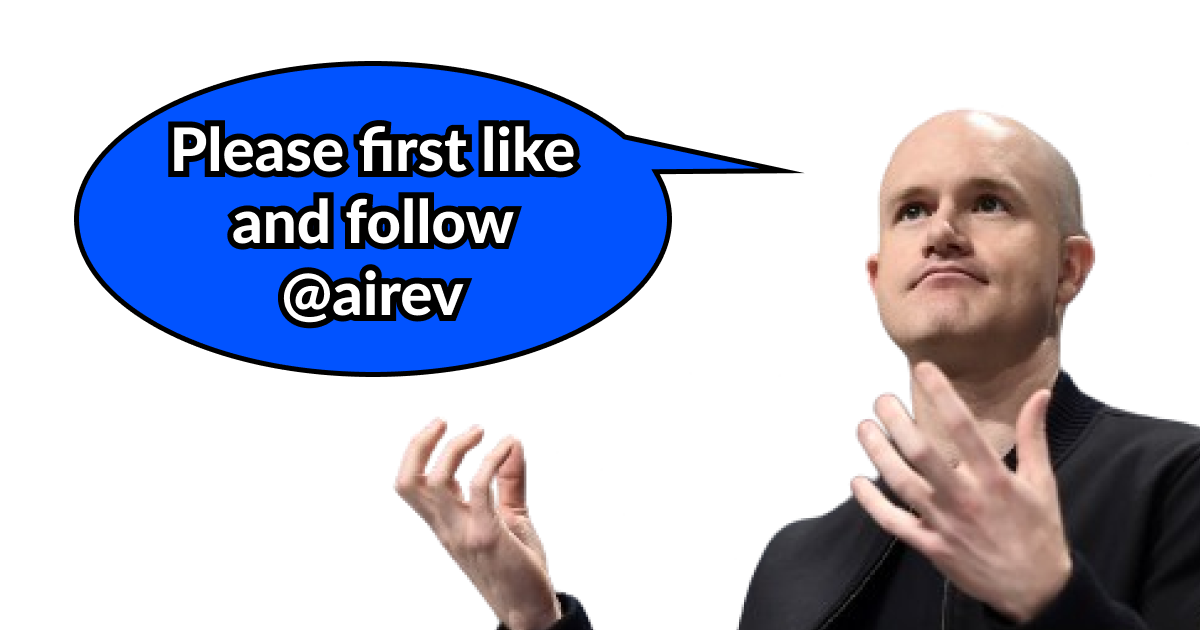
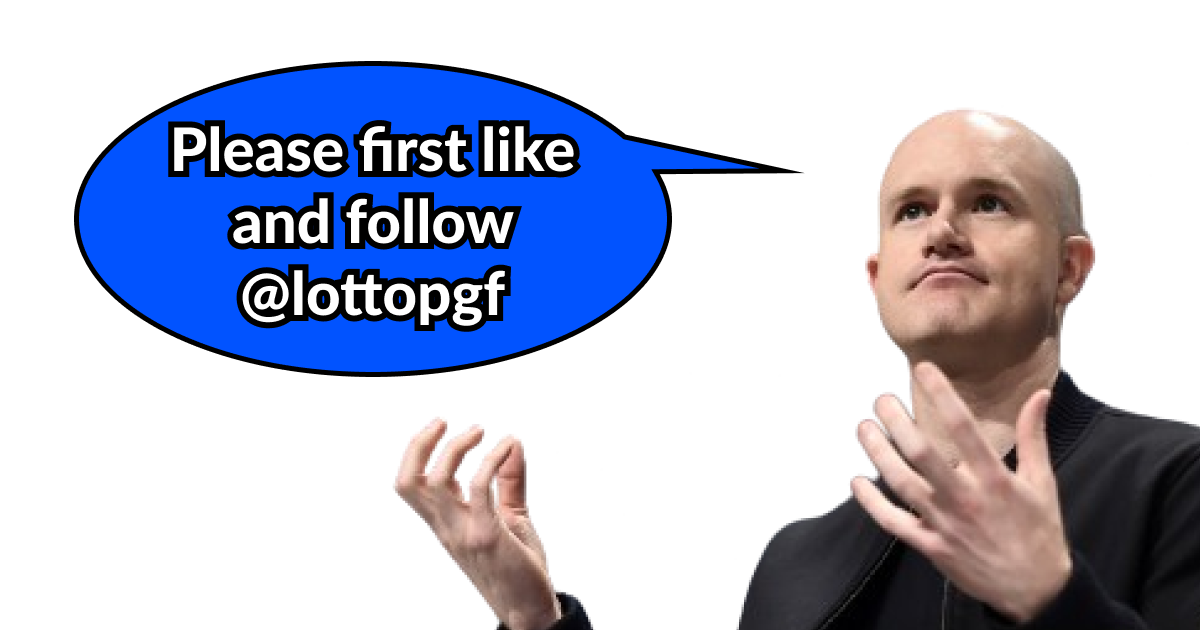
update powerbald config

Changed region(s): [[0.185, 0.4222, 0.4317, 0.5429]]

diff --git a/app/Frame.tsx b/app/Frame.tsx
@@ -66,7 +66,7 @@ export function getStorageKey(gameId: number, fid: number) {
     return `powerbald-testnet:${gameId}:${fid}`;
   }
 
-  return `powerbald:${gameId}:${fid}`;
+  return `powerbald-v15:${gameId}:${fid}`;
 }
 
 function sanitizePicks(raw: string) {

diff --git a/app/config.ts b/app/config.ts
@@ -9,7 +9,7 @@ import {
 import { base } from "viem/chains";
 
 export const PICK_AMOUNT = 5;
-export const MAXIMUM_NUMBER = 25;
+export const MAXIMUM_NUMBER = 18;
 
 export const FOLLOW_ACCOUNT_FID = 233254;
 export const FOLLOW_ACCOUNT_USERNAME = "lottopgf";
